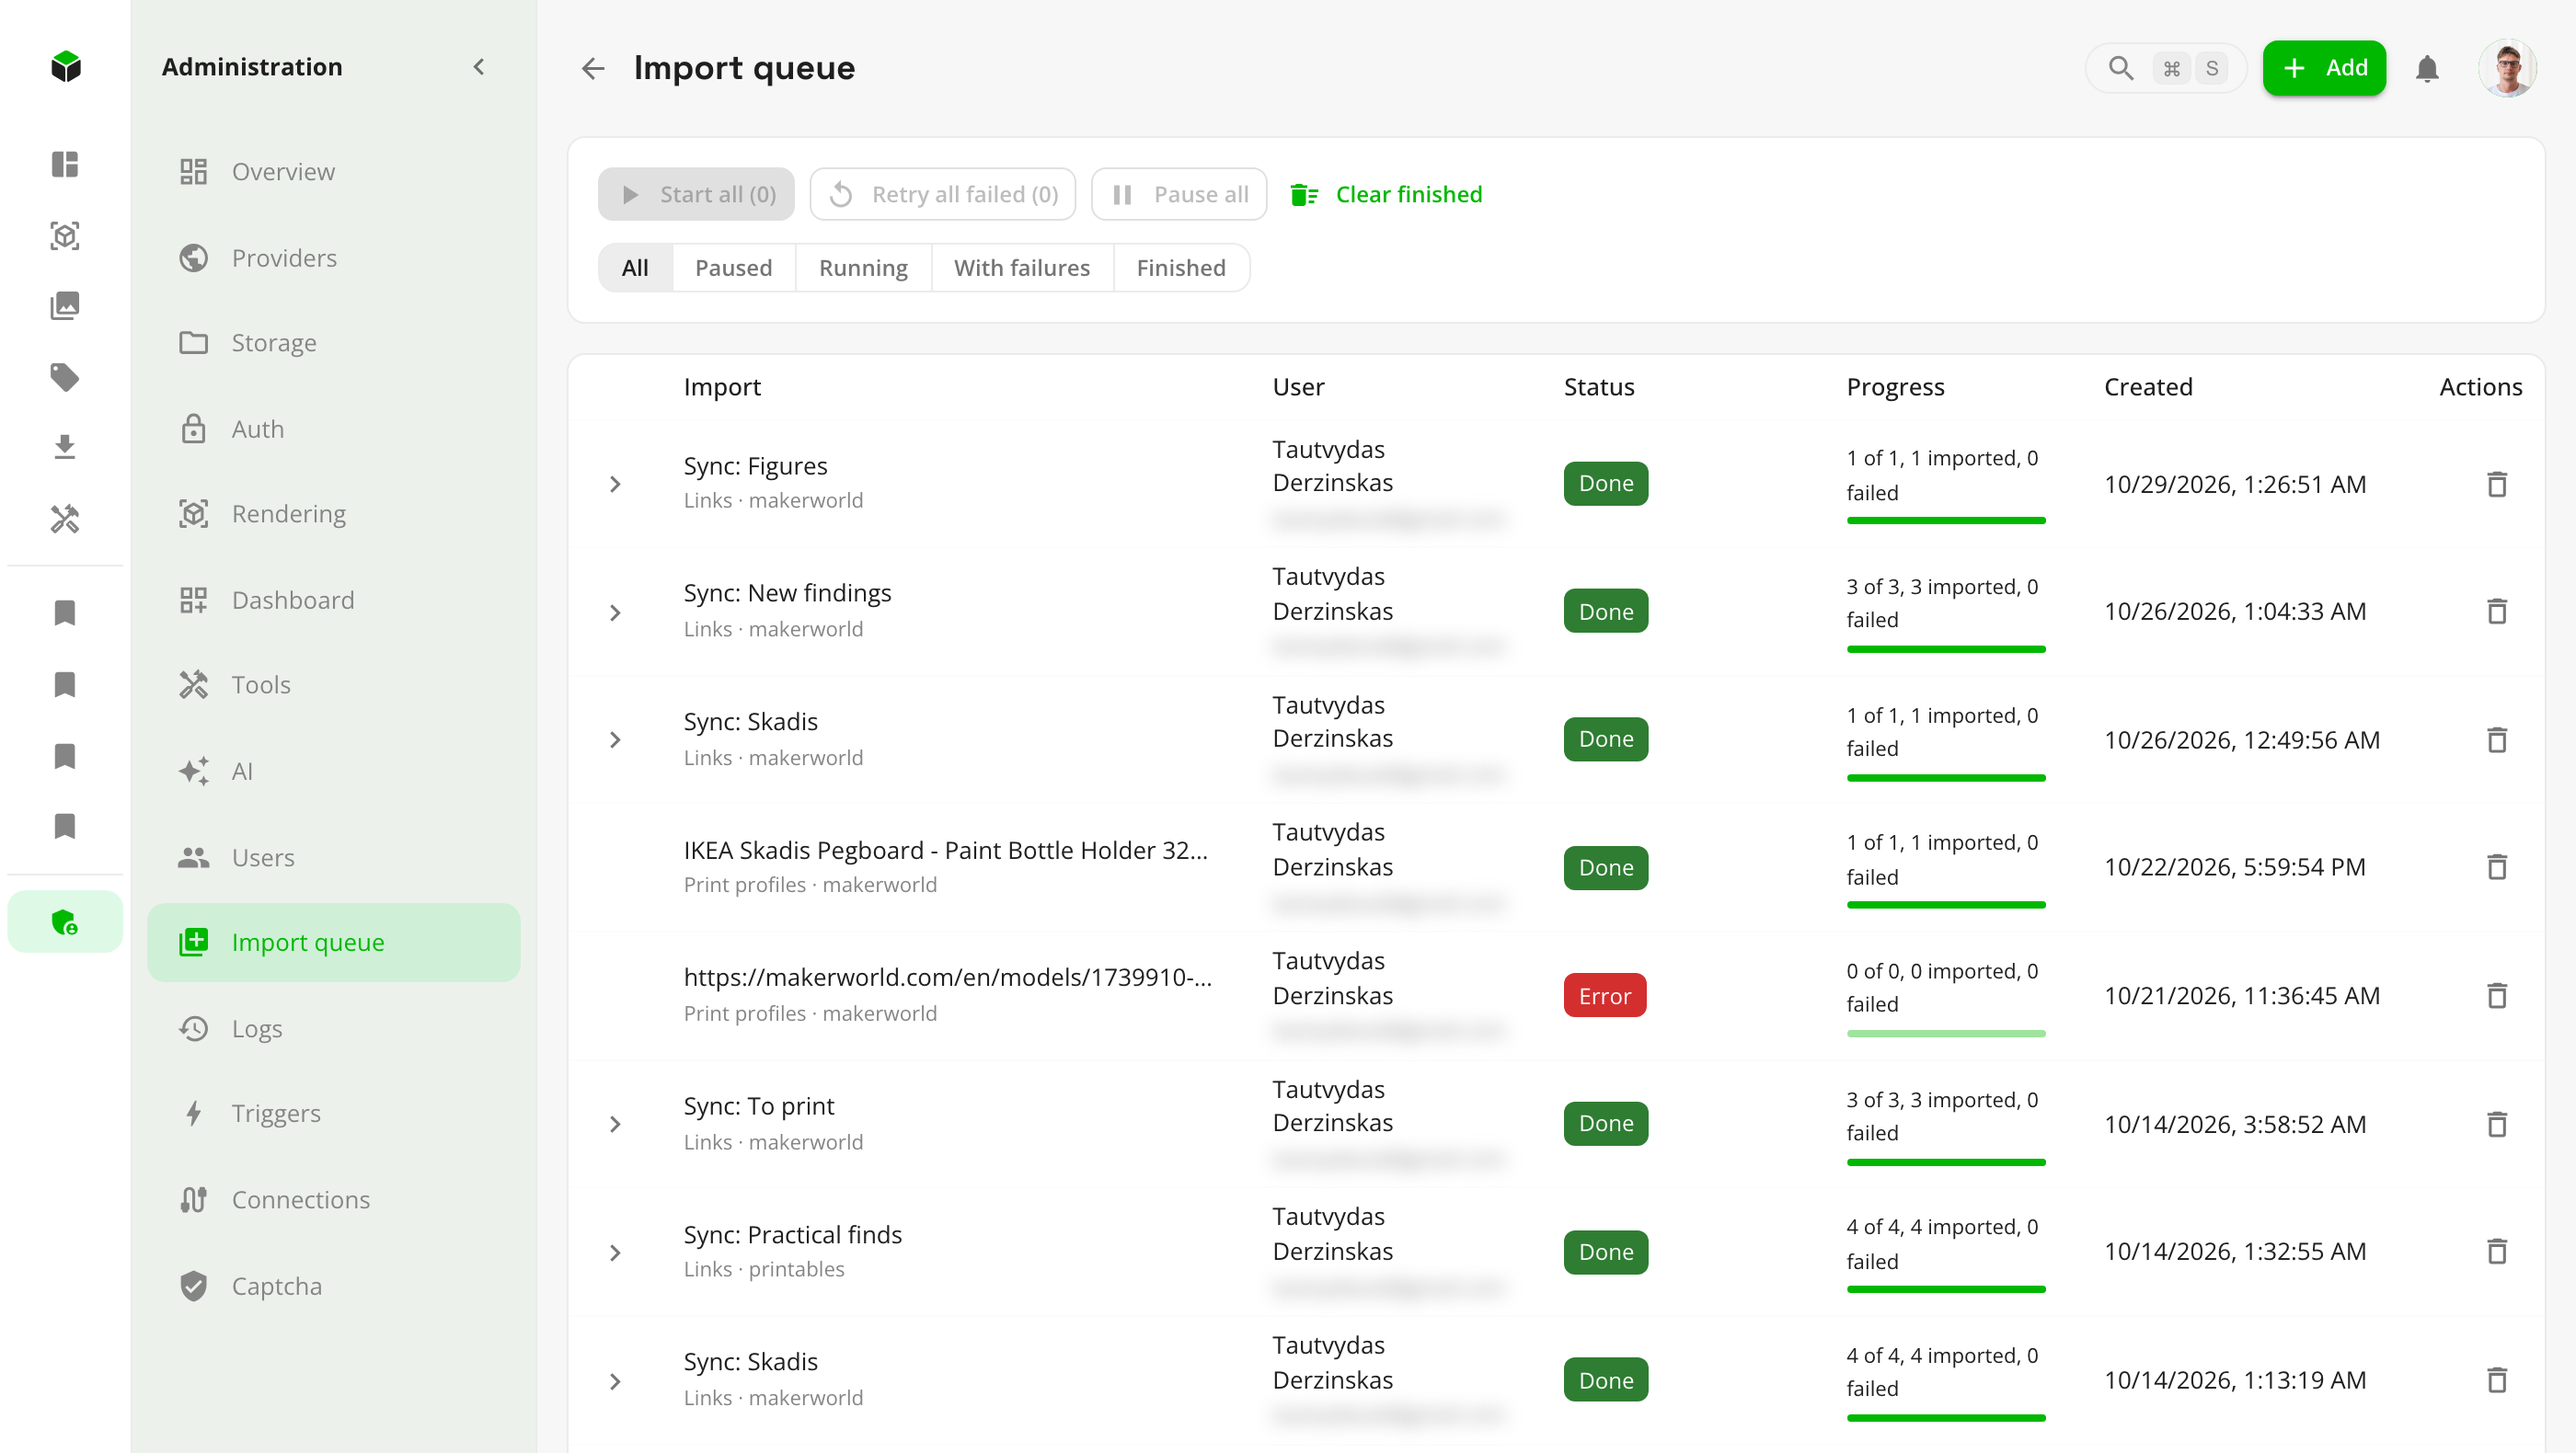
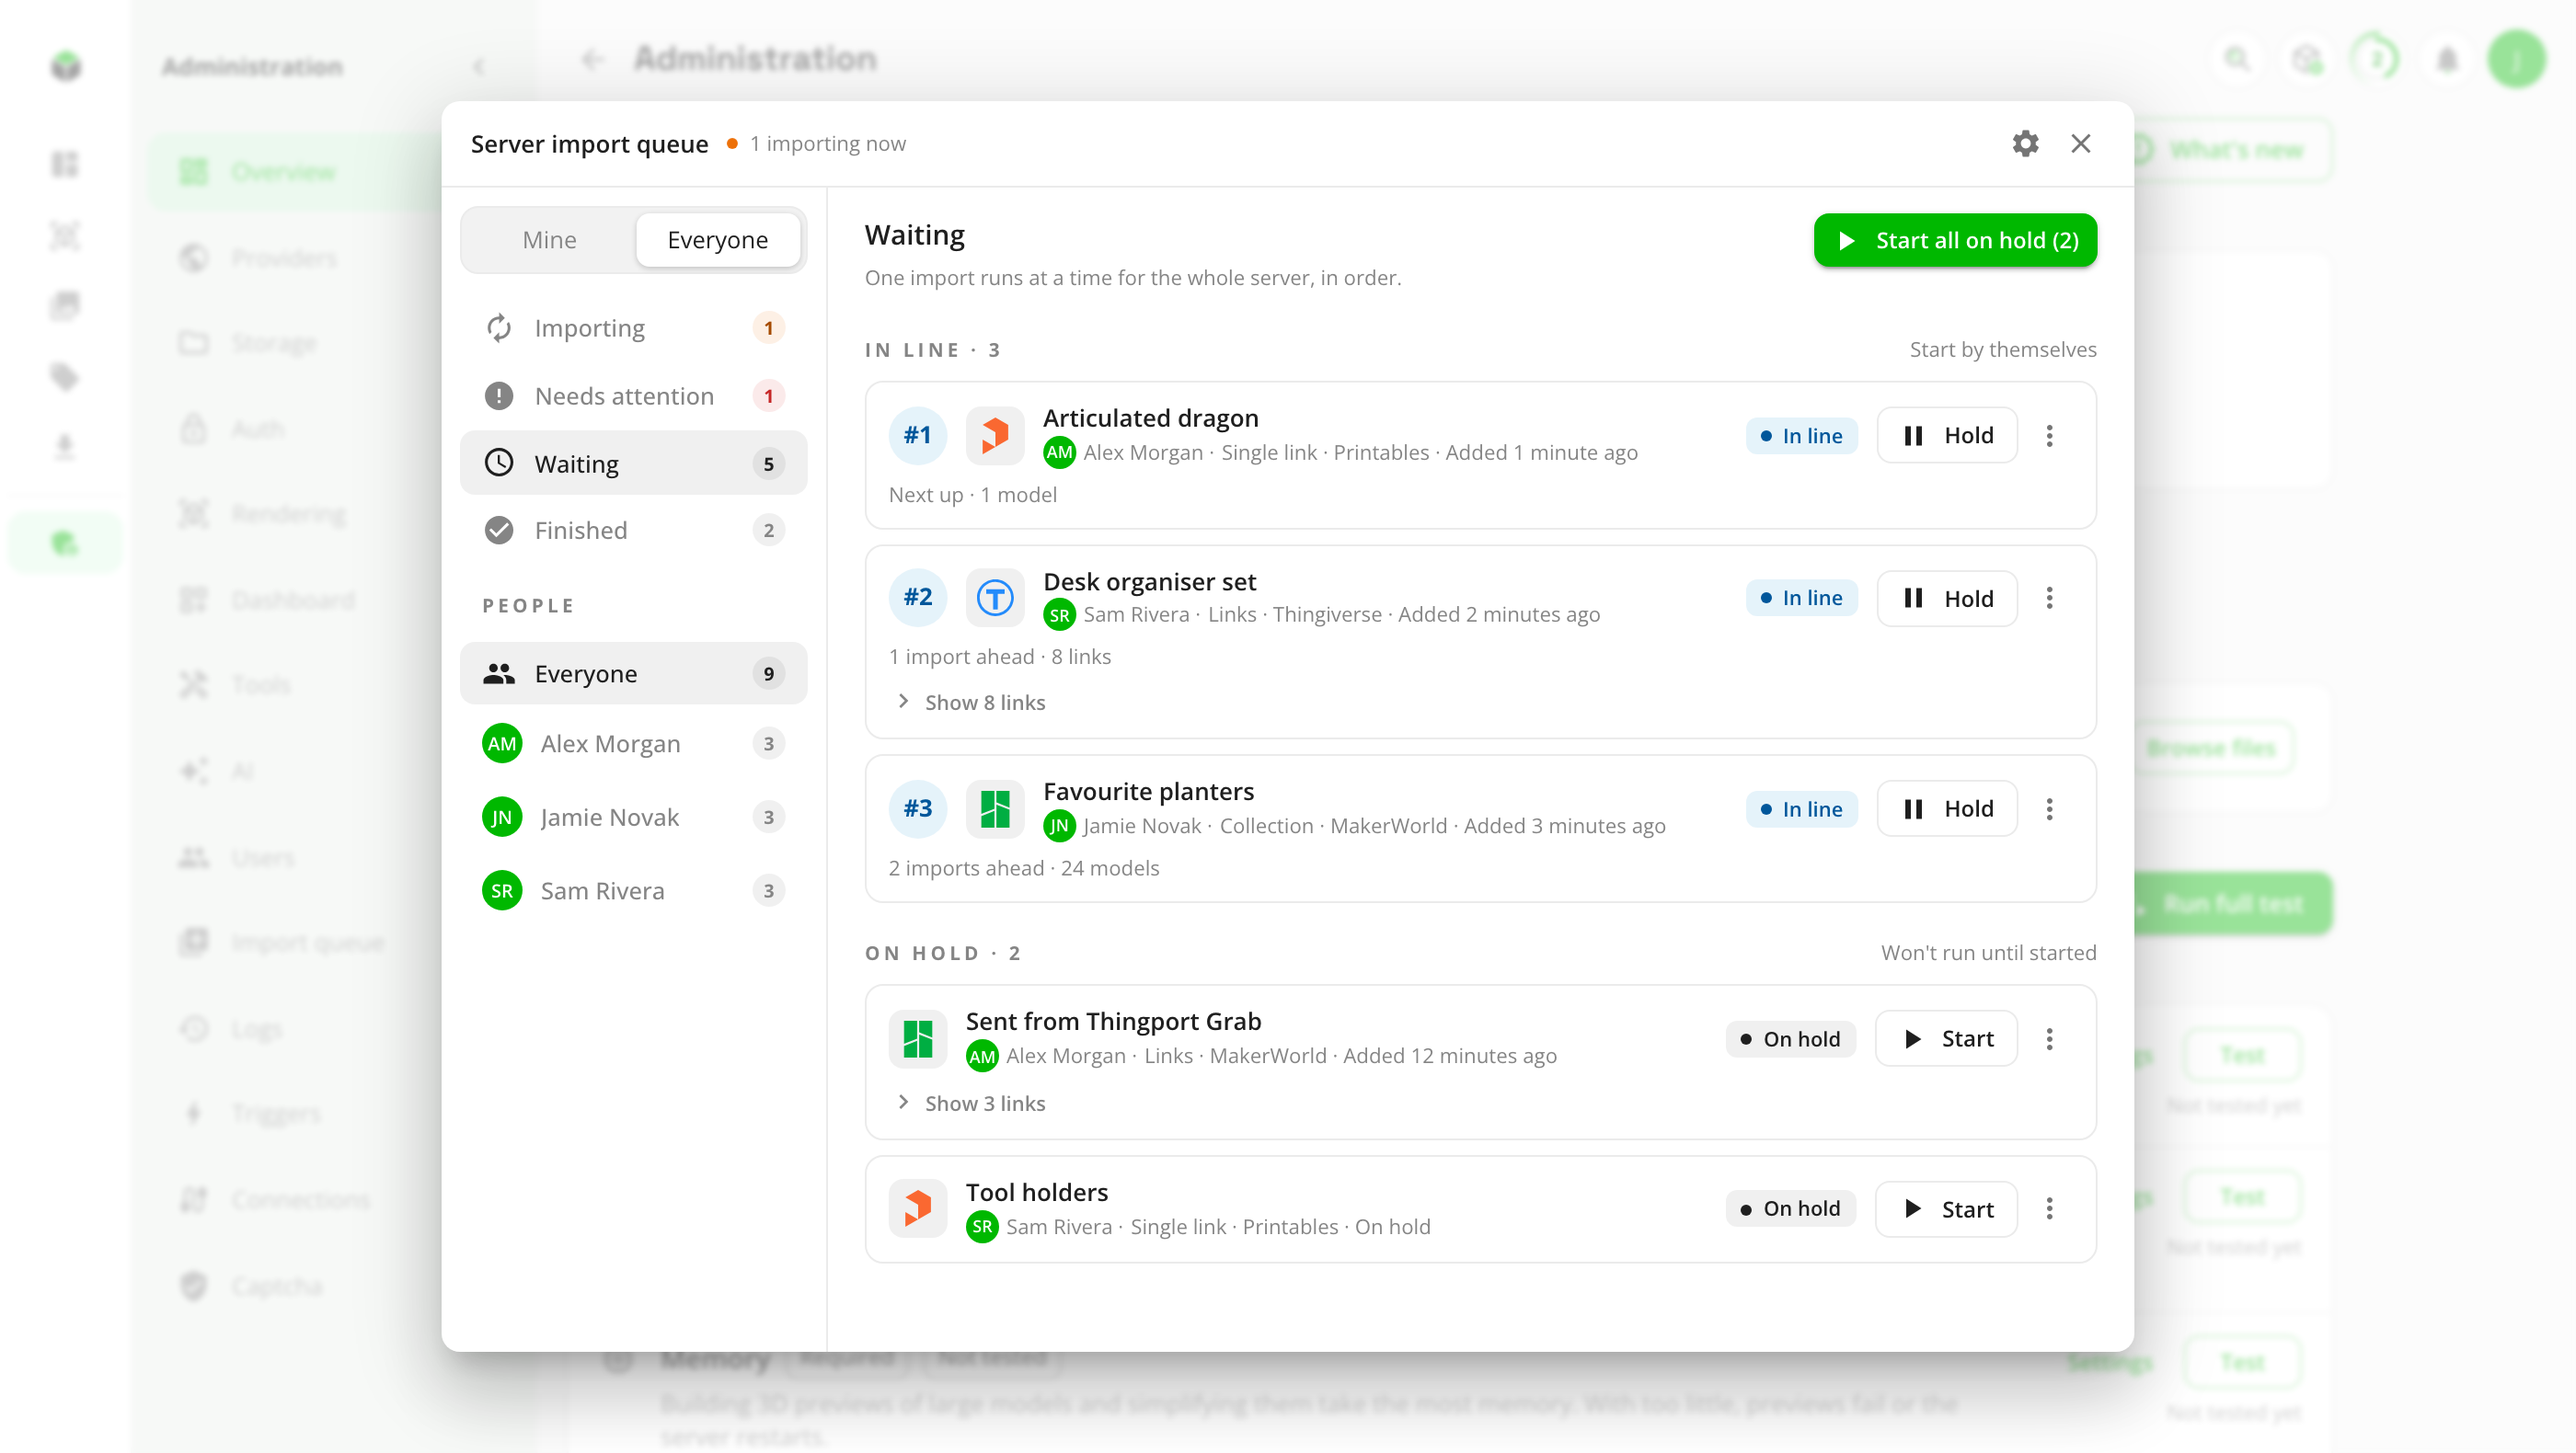
fix: hand an old browser's MakerWorld cookie to the server, and retake the queue's pictures
The browser's copy could be the only one, so someone upgrading would have lost their sign-in. Clear finished promises no number on a backend older than the line, and doesn't speak of other people on an instance with one. A bulk button takes focus back without moving the list.

diff --git a/frontend/src/utils/settings.test.ts b/frontend/src/utils/settings.test.ts
@@ -1,27 +1,84 @@
-import { afterEach, describe, expect, it, vi } from "vitest";
-import { forgetRetiredSettings } from "./settings";
+import { afterEach, beforeEach, describe, expect, it, vi } from "vitest";
+import { providersApi, type ProviderState } from "../api/providers";
+import { UnauthorizedError } from "../api/client";
+import { settleRetiredSettings } from "./settings";
+
+const OLD_COPY = '{"makerworld":{"cookie":"token=secret"}}';
+let stored: Map<string, string>;
+
+function makerworldIs(status: "connected" | "expired" | "disconnected") {
+  const state = { id: "makerworld", enabled: true, slots: { default: { status, account: null } } } as ProviderState;
+  vi.spyOn(providersApi, "list").mockResolvedValue([state]);
+  return vi.spyOn(providersApi, "saveConnection").mockResolvedValue();
+}
+
+beforeEach(() => {
+  stored = new Map([
+    ["thingport_settings", OLD_COPY],
+    ["thingport_auth_token", "kept"],
+  ]);
+  vi.stubGlobal("window", {
+    localStorage: {
+      getItem: (key: string) => stored.get(key) ?? null,
+      removeItem: (key: string) => stored.delete(key),
+    },
+  });
+});
 
 afterEach(() => {
+  vi.restoreAllMocks();
   vi.unstubAllGlobals();
 });
 
-describe("forgetRetiredSettings", () => {
-  it("takes away the old copy of the MakerWorld cookie, and nothing else", () => {
-    const stored = new Map([
-      ["thingport_settings", '{"makerworld":{"cookie":"token=secret"}}'],
-      ["thingport_auth_token", "kept"],
-    ]);
-    vi.stubGlobal("window", { localStorage: { removeItem: (key: string) => stored.delete(key) } });
-    forgetRetiredSettings();
+describe("settleRetiredSettings", () => {
+  it("hands the old copy to a server that has no sign-in, then forgets it", async () => {
+    const save = makerworldIs("disconnected");
+    await settleRetiredSettings();
+    expect(save).toHaveBeenCalledWith("makerworld", "default", { cookie: "token=secret" });
     expect([...stored.keys()]).toEqual(["thingport_auth_token"]);
   });
 
-  it("doesn't stop the app from starting where storage is blocked", () => {
+  it("doesn't overwrite a sign-in the server already has", async () => {
+    const save = makerworldIs("connected");
+    await settleRetiredSettings();
+    expect(save).not.toHaveBeenCalled();
+    expect([...stored.keys()]).toEqual(["thingport_auth_token"]);
+  });
+
+  it("forgets a copy the server turned down, as it would only be turned down again", async () => {
+    makerworldIs("disconnected").mockRejectedValue(new Error("This cookie doesn't work"));
+    await settleRetiredSettings();
+    expect(stored.has("thingport_settings")).toBe(false);
+  });
+
+  it("forgets it after a signed-out answer too, as the next sign-in has no way of knowing whose it was", async () => {
+    vi.spyOn(providersApi, "list").mockRejectedValue(new UnauthorizedError());
+    await settleRetiredSettings();
+    expect(stored.has("thingport_settings")).toBe(false);
+  });
+
+  it("keeps it for the next visit when the server can't be reached", async () => {
+    vi.spyOn(providersApi, "list").mockRejectedValue(new TypeError("Failed to fetch"));
+    await settleRetiredSettings();
+    expect(stored.get("thingport_settings")).toBe(OLD_COPY);
+  });
+
+  it("asks nothing when there's no copy, and survives a broken one", async () => {
+    const list = vi.spyOn(providersApi, "list");
+    stored.delete("thingport_settings");
+    await settleRetiredSettings();
+    stored.set("thingport_settings", "{not json");
+    await settleRetiredSettings();
+    expect(list).not.toHaveBeenCalled();
+    expect(stored.has("thingport_settings")).toBe(false);
+  });
+
+  it("doesn't throw where storage is blocked", async () => {
     vi.stubGlobal("window", {
       get localStorage(): Storage {
         throw new DOMException("Blocked", "SecurityError");
       },
     });
-    expect(() => forgetRetiredSettings()).not.toThrow();
+    await expect(settleRetiredSettings()).resolves.toBeUndefined();
   });
 });

diff --git a/frontend/src/utils/settings.ts b/frontend/src/utils/settings.ts
@@ -1,9 +1,38 @@
-// Older versions kept a copy of the MakerWorld cookie in this browser. Nothing reads it now, as the server fills in the
-// saved sign-in itself, so it goes.
+import { providersApi } from "../api/providers";
+
+// Older versions kept a copy of the MakerWorld cookie in this browser and sent it with imports. Nothing reads it now, as
+// the server fills in the saved sign-in itself, so it goes. It may be the only copy, though: the server's began later and
+// saving there could fail, so it's handed over first, or someone upgrading would lose their sign-in.
 const RETIRED_KEY = "thingport_settings";
 
-export function forgetRetiredSettings(): void {
+function readRetiredCookie(): string {
+  try {
+    const cookie = JSON.parse(window.localStorage.getItem(RETIRED_KEY) ?? "{}")?.makerworld?.cookie;
+    return typeof cookie === "string" ? cookie.trim() : "";
+  } catch {
+    return "";
+  }
+}
+
+function forgetRetiredSettings(): void {
   try {
     window.localStorage.removeItem(RETIRED_KEY);
   } catch {}
+}
+
+/** Once signed in. Kept for the next visit only when the server couldn't be reached. */
+export async function settleRetiredSettings(): Promise<void> {
+  const cookie = readRetiredCookie();
+  try {
+    if (cookie) {
+      const providers = await providersApi.list();
+      const makerworld = providers.find((provider) => provider.id === "makerworld");
+      if (makerworld?.slots.default?.status === "disconnected") {
+        await providersApi.saveConnection("makerworld", "default", { cookie });
+      }
+    }
+  } catch (err) {
+    if (err instanceof TypeError) return;
+  }
+  forgetRetiredSettings();
 }

diff --git a/frontend/src/components/importQueue/queueView.test.ts b/frontend/src/components/importQueue/queueView.test.ts
@@ -693,10 +693,10 @@ describe("clearFinishedConfirmText", () => {
     });
   });
 
-  it("says how many on everyone's list, and that they're other people's too", () => {
+  it("says how many on everyone's list, true even when there's only one person", () => {
     const { title, message } = clearFinishedConfirmText(t, { count: 1400, person: null });
     expect(title).toBe("Clear finished imports?");
-    expect(message).toContain("This clears 1400 finished imports, other people's too");
+    expect(message).toContain("This clears 1400 finished imports, whoever they belong to");
   });
 
   it("doesn't claim one is someone else's", () => {
@@ -722,8 +722,8 @@ describe("clearFinishedConfirmText", () => {
     const message = (count: number, person: string | null = null) =>
       clearFinishedConfirmText(inLithuanian, { count, person }).message;
     expect(message(1)).toContain("Bus išvalytas 1 baigtas importas, kad ir kieno jis būtų");
-    expect(message(3)).toContain("Bus išvalyti 3 baigti importai, taip pat ir kitų žmonių");
-    expect(message(12)).toContain("Bus išvalyta 12 baigtų importų, taip pat ir kitų žmonių");
+    expect(message(3)).toContain("Bus išvalyti 3 baigti importai, kad ir kieno jie būtų");
+    expect(message(12)).toContain("Bus išvalyta 12 baigtų importų, kad ir kieno jie būtų");
     expect(message(3, "Jonas")).toContain("Bus išvalyti 3 baigti importai (Jonas)");
   });
 });

diff --git a/frontend/src/App.tsx b/frontend/src/App.tsx
@@ -24,6 +24,7 @@ import VerifyEmailPage from "./pages/VerifyEmailPage";
 import OidcCallbackPage from "./pages/OidcCallbackPage";
 import ConnectGrabPage from "./pages/ConnectGrabPage";
 import { rememberReturnPath } from "./utils/returnPath";
+import { settleRetiredSettings } from "./utils/settings";
 import { IMPORT_PATH } from "./utils/bookmarklet";
 import ResetPasswordPage from "./pages/ResetPasswordPage";
 import ProfilePage from "./pages/ProfilePage";
@@ -388,6 +389,7 @@ export default function App() {
   }, []);
   React.useEffect(() => {
     if (!token) return;
+    void settleRetiredSettings();
     (async () => {
       try {
         setPreviewMode((await settingsApi.getPreviews()).mode);

diff --git a/frontend/src/components/importQueue/ImportQueueDialog.tsx b/frontend/src/components/importQueue/ImportQueueDialog.tsx
@@ -152,7 +152,10 @@ function QueuePanel({ list, counts }: { list: QueueJob[]; counts: SectionCounts 
     const owner = list.find((job) => job.owner?.id === person)?.owner;
     const text = clearFinishedConfirmText(
       t,
-      everyone ? { count: counts.done, person: person && (owner ? ownerName(owner) : person) } : undefined,
+      // A backend older than the line counts and clears by its own rule, so there's no number to promise.
+      everyone && !queue.everyone.olderBackend
+        ? { count: counts.done, person: person && (owner ? ownerName(owner) : person) }
+        : undefined,
     );
     if (await confirm({ ...text, destructive: true })) await queue.clearFinished(person);
   };

diff --git a/regression/tests/import-queue.spec.ts b/regression/tests/import-queue.spec.ts
@@ -476,7 +476,7 @@ test("Everyone's Clear finished says how many and whose, and clears as far as it
   const confirm = page.getByRole("dialog", { name: "Clear finished imports?" });
 
   await dialog.getByRole("button", { name: "Clear finished (3)" }).click();
-  await expect(confirm).toContainText("This clears 3 finished imports, other people's too");
+  await expect(confirm).toContainText("This clears 3 finished imports, whoever they belong to");
   await confirm.getByRole("button", { name: "Cancel" }).click();
   await expect(confirm).toBeHidden();
 

diff --git a/frontend/src/components/importQueue/queueFocus.ts b/frontend/src/components/importQueue/queueFocus.ts
@@ -87,7 +87,8 @@ export async function keepingPanelFocus(event: { currentTarget: Element }, actio
   if (!dialog) return;
   requestAnimationFrame(() => {
     if (document.activeElement !== button && !focusFellFrom(dialog)) return;
-    if (button.isConnected && !button.disabled) button.focus();
+    // Without moving the list, which may have been scrolled while the answer came.
+    if (button.isConnected && !button.disabled) button.focus({ preventScroll: true });
     else focusHeading(dialog);
   });
 }

diff --git a/frontend/src/main.tsx b/frontend/src/main.tsx
@@ -3,9 +3,6 @@ import { createRoot } from "react-dom/client";
 import "./index.css";
 import "./i18n";
 import App from "./App";
-import { forgetRetiredSettings } from "./utils/settings";
-
-forgetRetiredSettings();
 
 const el = document.getElementById("root");
 if (!el) throw new Error("#root not found");
